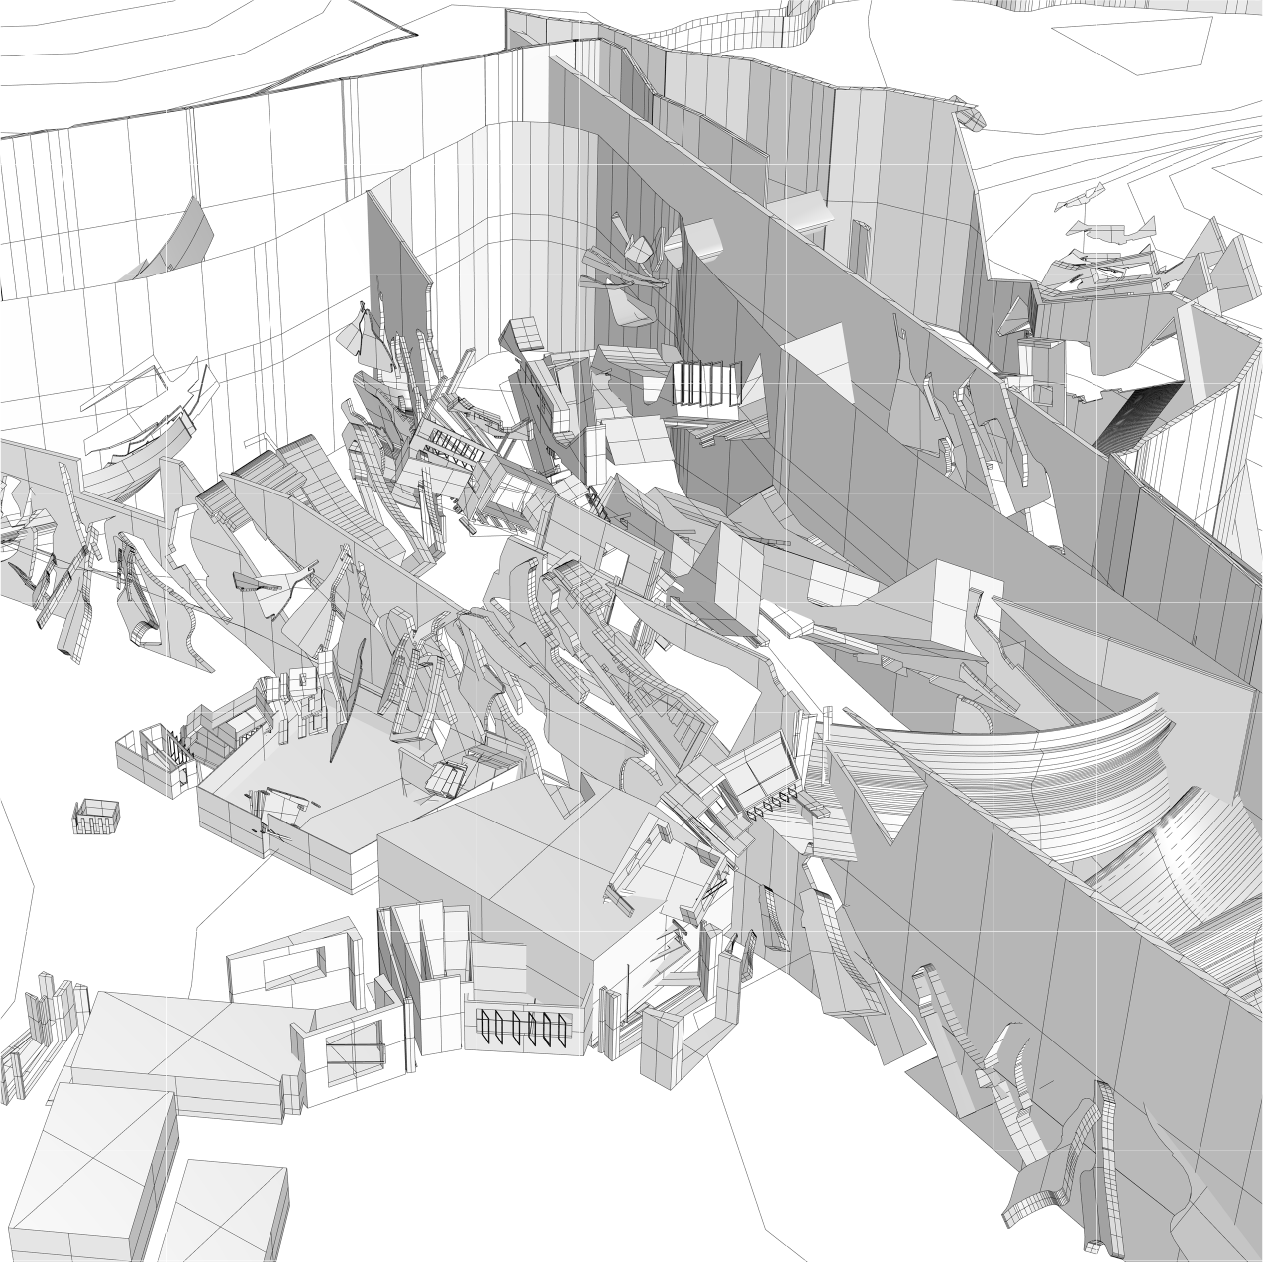
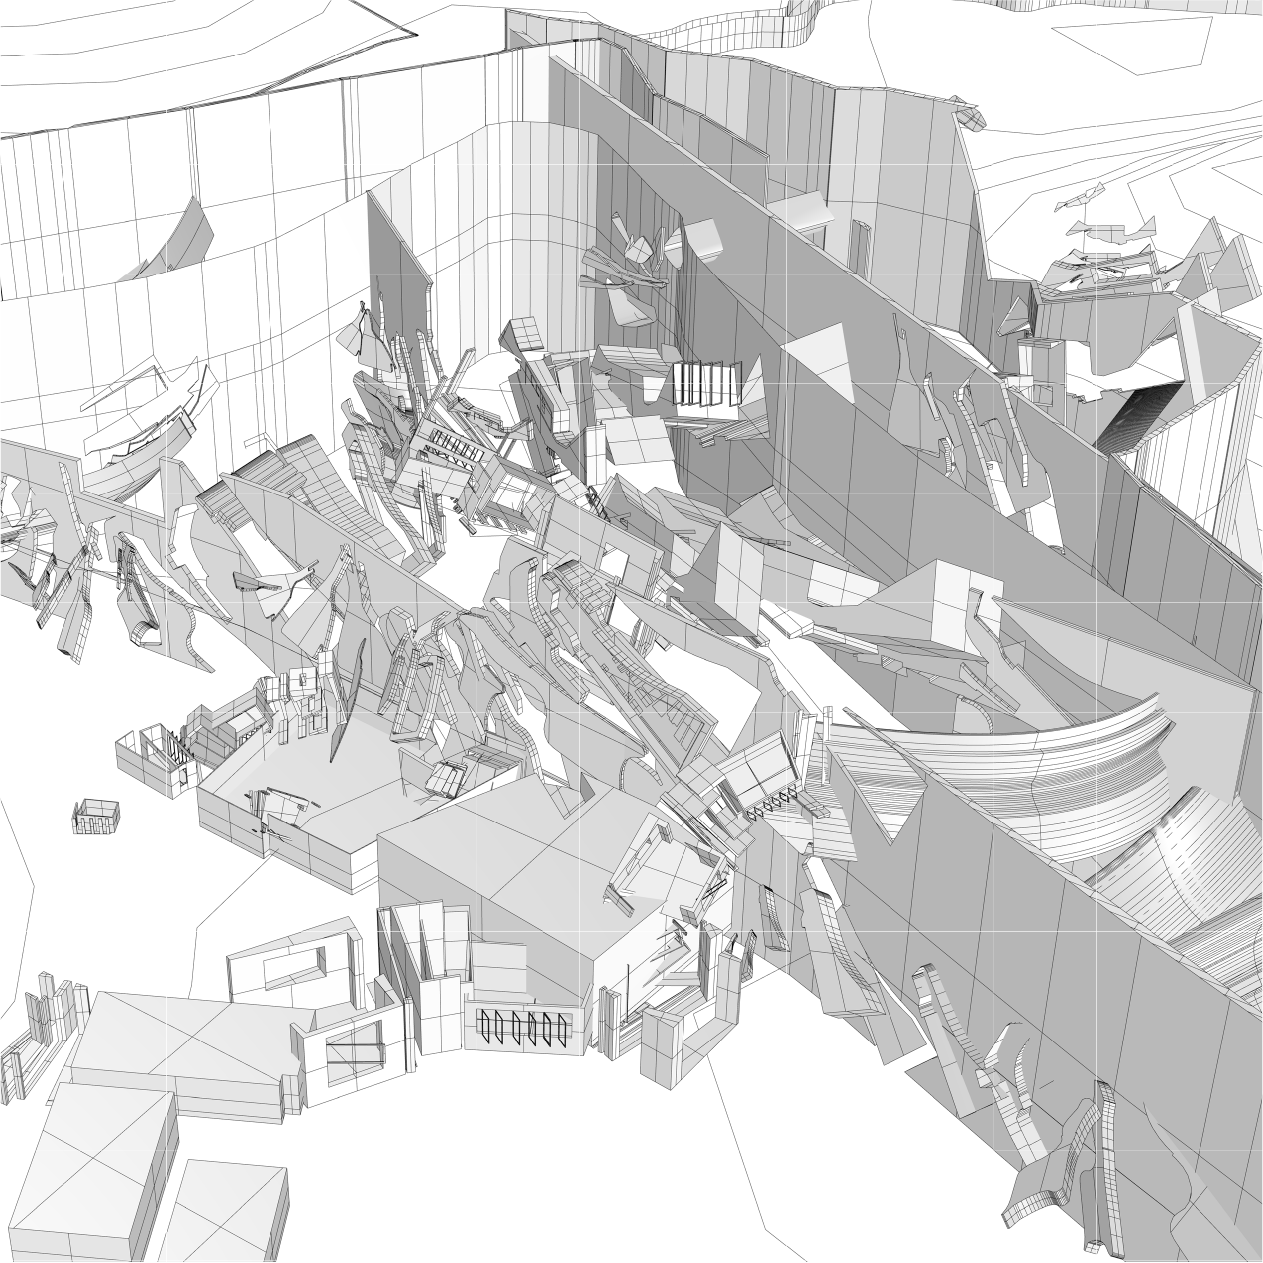
Give the Memento wall axonometric a white square ground
The wireframe PNG was transparent, so its dark linework sank into the
page's near-black background, and the 4:5 single slot cropped the
square canvas. The artwork is now composited centered onto a white
1263x1263 canvas (no cropping of the drawing), and the single slot
gains a .phSquare 1:1 variant so the full frame shows uncropped.

diff --git a/app/spatial-complexity/page.tsx b/app/spatial-complexity/page.tsx
@@ -385,7 +385,7 @@ export default function MementoPage() {
 
           <div className="single">
             <Frame
-              className="ph"
+              className="ph phSquare"
               src="/images/memento/06-wall-axonometric.png"
               alt="Wireframe axonometric — the wall opened as an inhabitable section"
               sizes="(max-width: 760px) 100vw, 560px"

diff --git a/app/globals.css b/app/globals.css
@@ -5219,6 +5219,13 @@ video {
 }
 
 
+/* square variant — full-frame artwork, no crop */
+
+.projectCinema .single .ph.phSquare {
+  aspect-ratio: 1 / 1;
+}
+
+
 /* landscape variant — for paired renders / drawings */
 
 .projectCinema .pair .ph.phWide {
